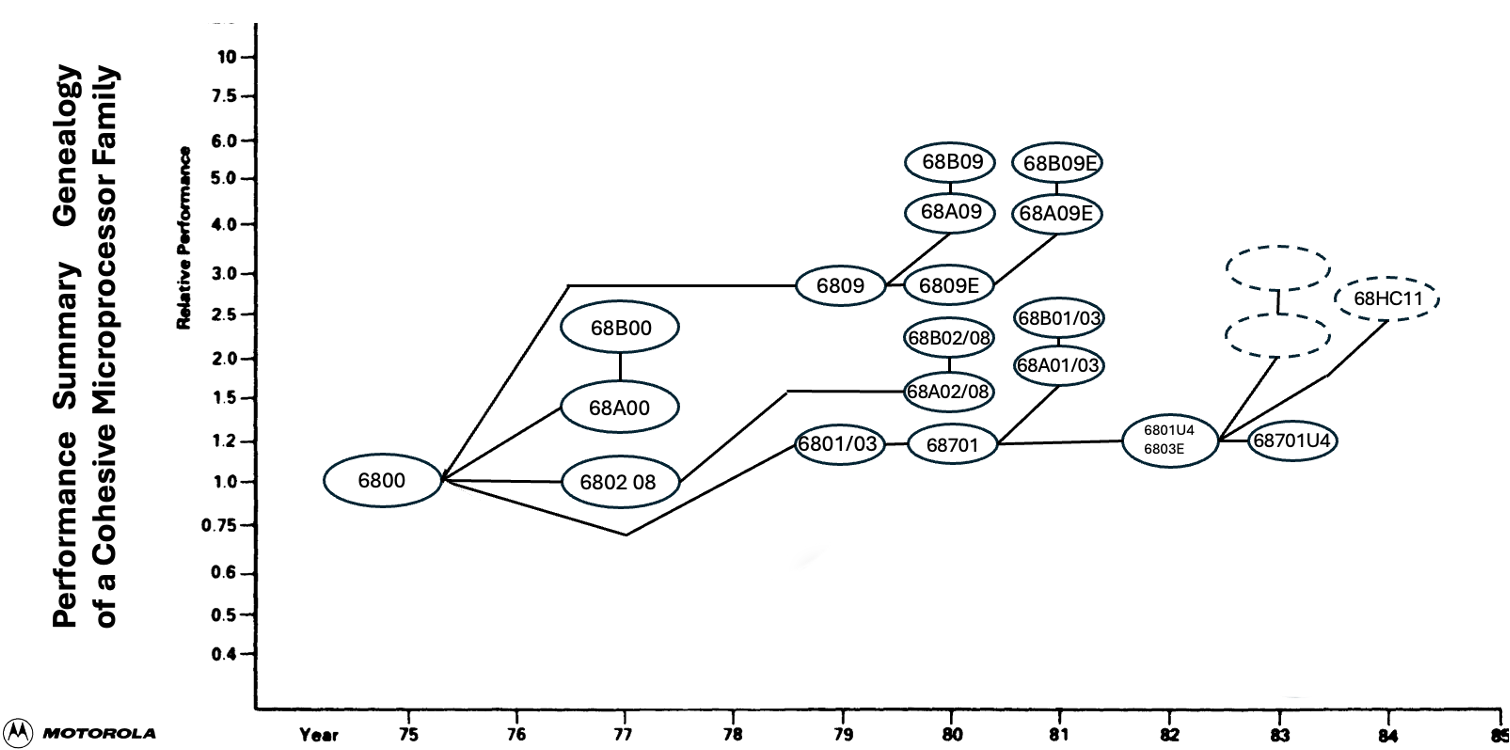
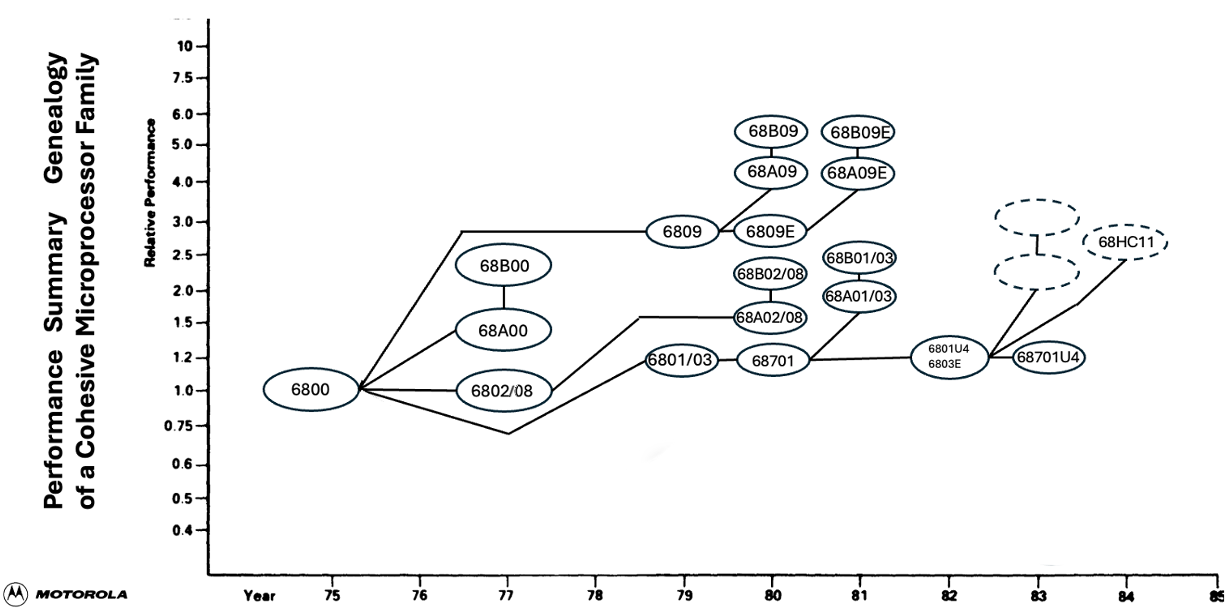
Improvements to packaging info and slight update to 6800 family tree pic

diff --git a/source/Documents/Hardware/ICs/packaging.rst b/source/Documents/Hardware/ICs/packaging.rst
@@ -1,0 +1,49 @@
+:orphan:
+
+.. _Packaging:
+
+Packaging and Identification
+============================
+
+The Motorola MC68xx family of ICs had a (mostly) mostly common, identifiable, naming convention. The base prefix was either "MC68" or "MCM68", with the latter indicating a
+multi-chip module (MCM) package.
+
+The suffix letter indicated the type of packaging used for the IC:
+
+.. csv-table:: 
+   :header: "Suffix","Description"
+   :widths: auto
+   
+   "L",":ref:`Ceramic <glossary_CERAMIC>`"
+   "P",":ref:`Plastic <glossary_PLASTIC>`"
+   "S",":ref:`CERDIP <glossary_CERDIP>`"
+
+Some of the Motorola range were offered with different performance or access time levels. These are indicated by a letter inserted after the "MC68" or "MCM68" prefix:
+
+.. csv-table:: 
+   :header: "Performance","Description","Example"
+   :widths: auto
+
+   "A","1.5MHz",":ref:`MC68A50P <MC68A50P>`"
+   "B","2MHz",":ref:`MCM68B10P <MCM68B10P>`"
+
+.. note::
+    Some second source manufacturers used different performance level indicators. For example, **Hitachi** used "C" to indicate 3MHz or 3.5Mhz parts (:ref:`HD63C09EP <HD63C09EP>`)
+
+
+.. collapse:: The "BETTER Programme"
+   
+    Additionally, some ICs had additional suffix components to indicate specific variants of the base IC (as per the 
+    "BETTER Programme"):
+
+    .. csv-table:: 
+       :header: "Suffix","Level","Summary"
+       :widths: auto
+
+        "I","S","100% temperature cycling per MIL-STD-883A."
+        "II","D","100% burn-in to MIL-STD-883A."
+        "III","DS","Combination of I and II."
+
+    .. image:: ../../../images/General/better.png
+       :width: 400
+       :align: center

diff --git a/source/Documents/Hardware/ICs/index.rst b/source/Documents/Hardware/ICs/index.rst
@@ -5,30 +5,10 @@ Integrated Circuits
 ===================
 
 
-Packaging and Identification
-============================
+The numbering scheme of the MC6800 family was fairly straightforward, with the "MC" prefix indicating a Motorola integrated circuit. The "68" prefix was a brand identifier for the family, with the following two digits indicating the specific function of the chip. 
+This logical system allowed engineers to easily identify the role of each component within the larger system.
 
-Many of the ICs in the Motorola range were made available in different packaging forms, most notably:
-
-.. csv-table:: 
-   :header: "Suffix","Description"
-   :widths: auto
-   
-   "L",":ref:`Ceramic <glossary_CERAMIC>`"
-   "P",":ref:`Plastic <glossary_PLASTIC>`"
-   "S",":ref:`CERDIP <glossary_CERDIP>`"
-
-Additionally, some ICs had additional suffix components to indicate specific variants of the base IC (as per the 
-"BETTER Programme"):
-
-.. csv-table:: 
-   :header: "Suffix","Level","Summary"
-   :widths: auto
-
-   "I","S","100% temperature cycling per MIL-STD-883A."
-   "II","D","100% burn-in to MIL-STD-883A."
-   "III","DS","Combination of I and II."
-
+Family members were further identified by :ref:`additional components within the IC number <Packaging>`
 
 .. csv-table::
    :header: "Part","Packaging","Name","Notes" 

diff --git a/source/collection.rst b/source/collection.rst
@@ -2,7 +2,7 @@
 
 Collection
 ===========
-This is the current collection (as at 26-08-2025) of the items produced by Motorola in the MC6800 Range of CPUs and their derivatives, support chips and tooling
+This is the current collection (as at 28-08-2025) of the items produced by Motorola in the MC6800 Range of CPUs and their derivatives, support chips and tooling
 
 
 

diff --git a/source/Documents/Hardware/ICs/labels.fragment.rst b/source/Documents/Hardware/ICs/labels.fragment.rst
@@ -14,6 +14,10 @@
    :width: 200
    :class: no-scaled-links
 
+.. |isource/Documents/Hardware/ICs/packaging|  image:: /images/General/better.png
+   :width: 200
+   :class: no-scaled-links
+
 .. |iMC6860P|  image:: /images/Hardware/ICs/MC6860/MC6860P.1.png
    :width: 200
    :class: no-scaled-links

diff --git a/source/transit.rst b/source/transit.rst
@@ -2,7 +2,7 @@
 
 In-Transit
 ===========
-This is the current set of items (as at 26-08-2025) in transit.
+This is the current set of items (as at 28-08-2025) in transit.
 
 
 .. rubric:: ICs
